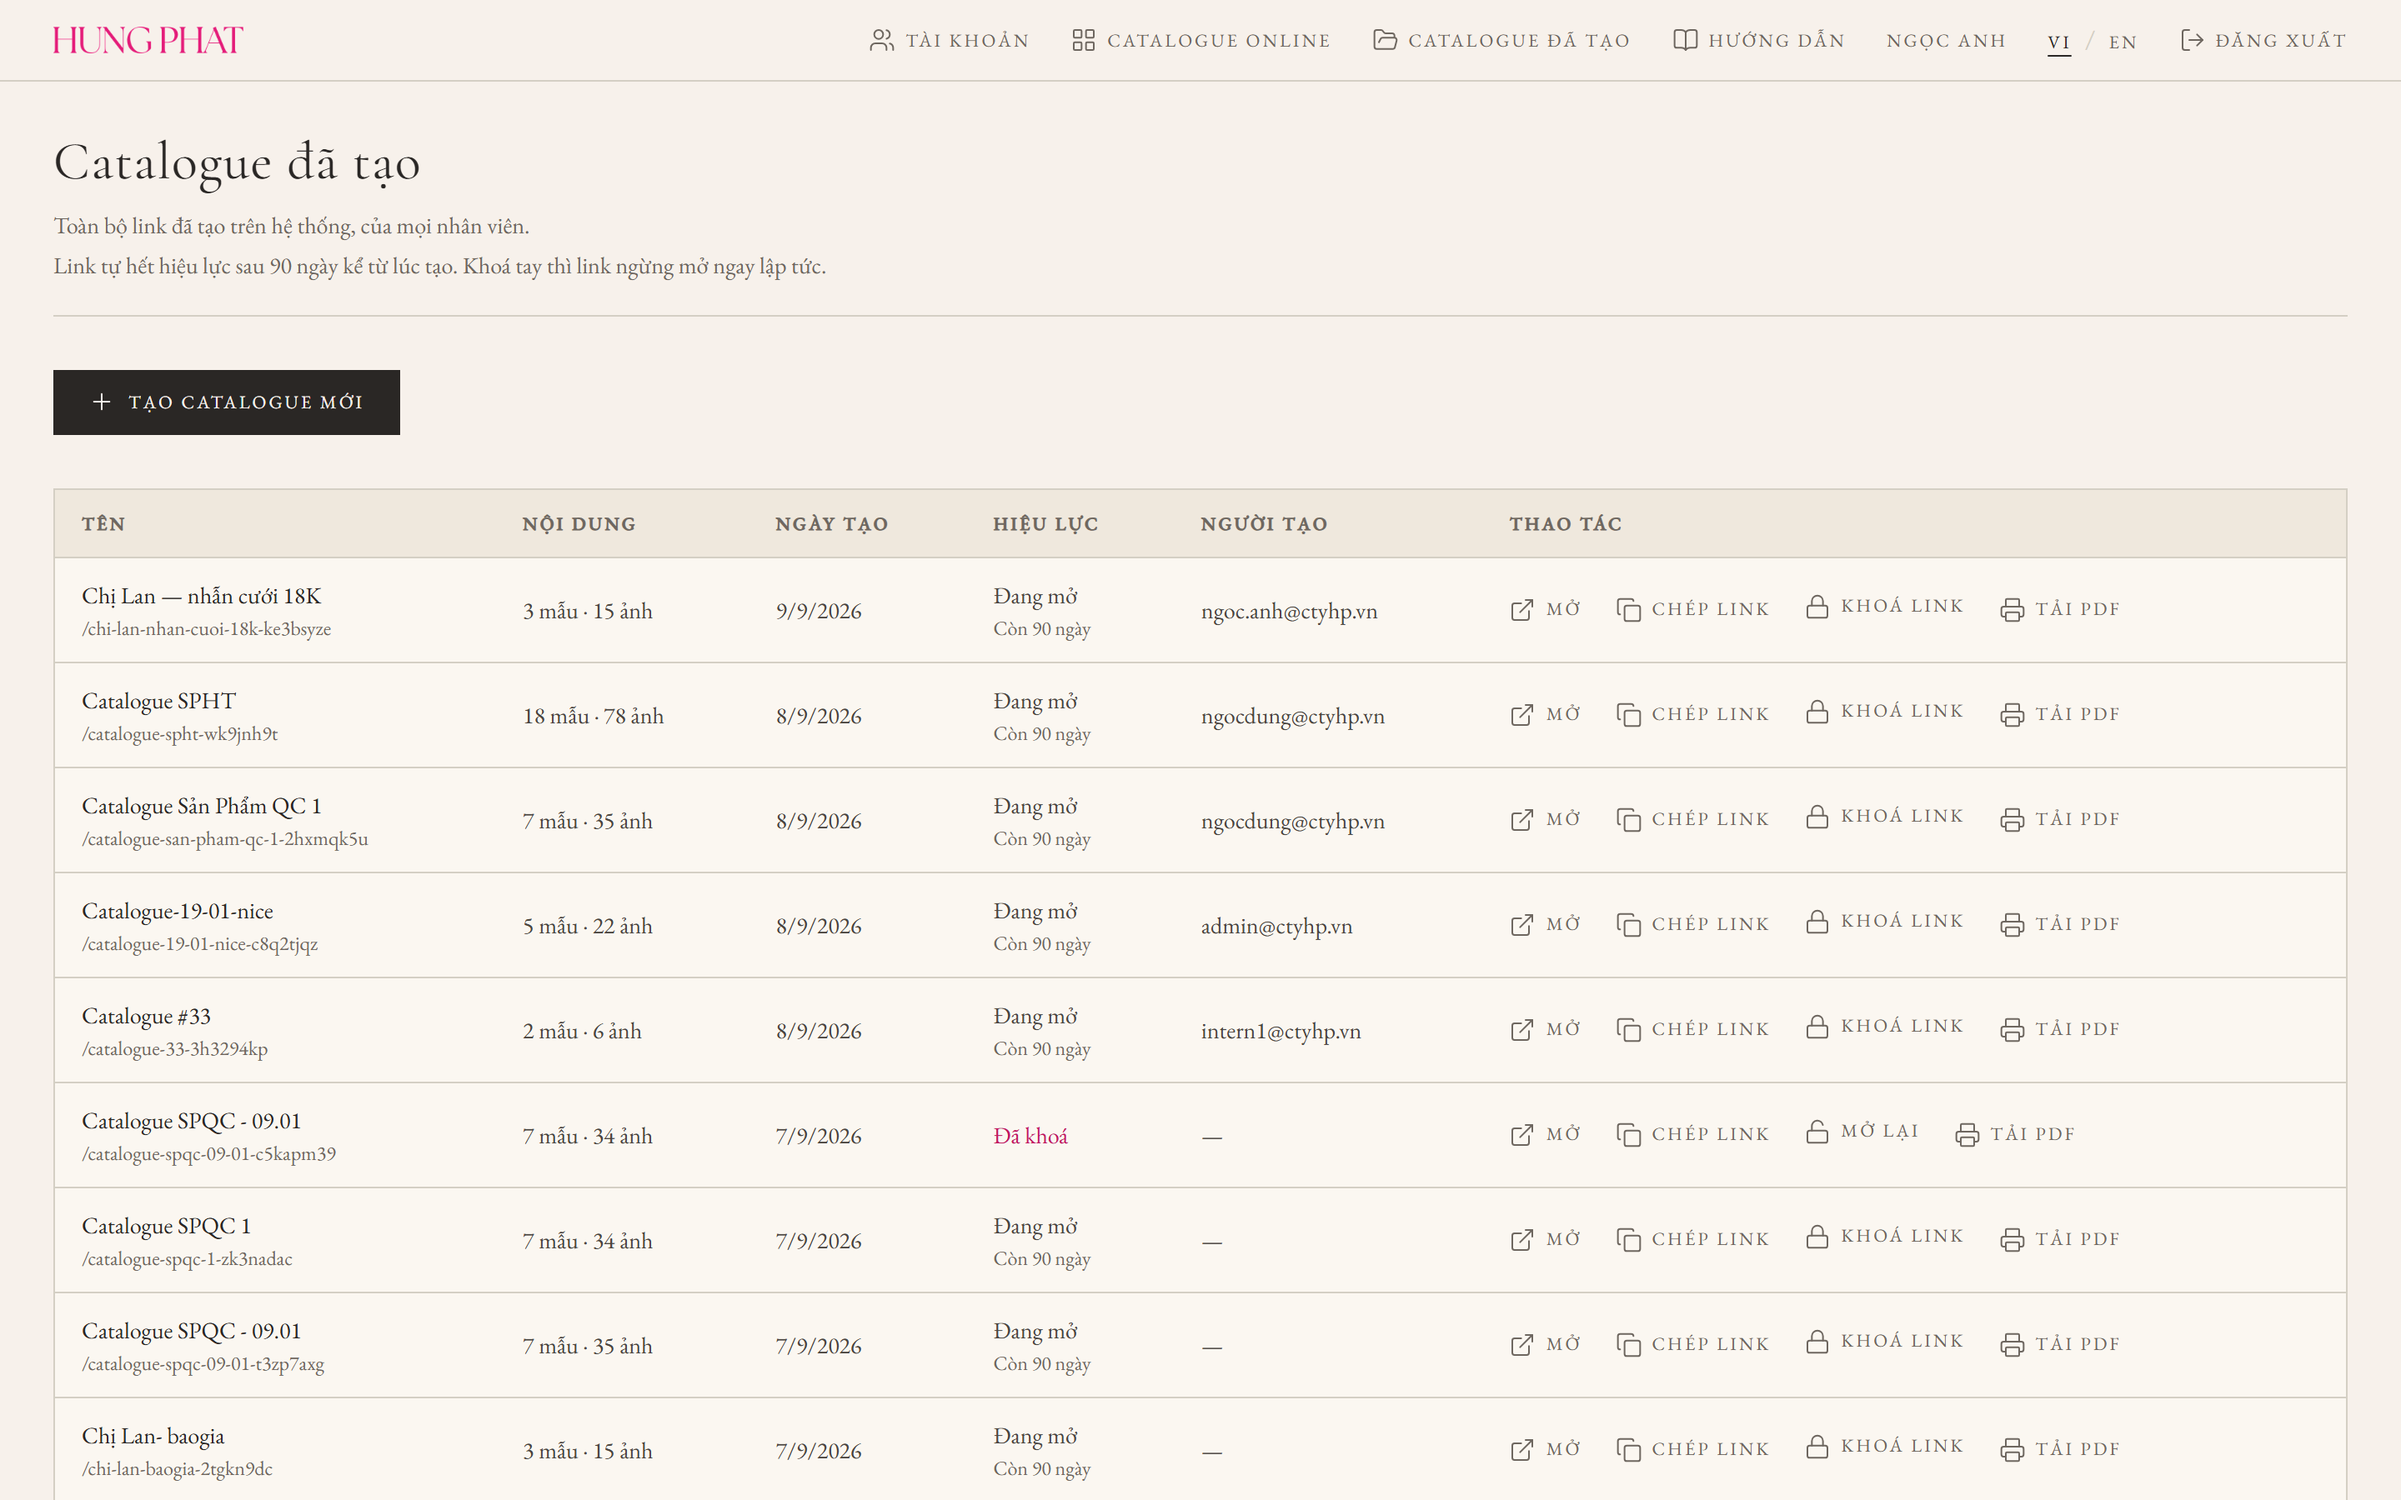
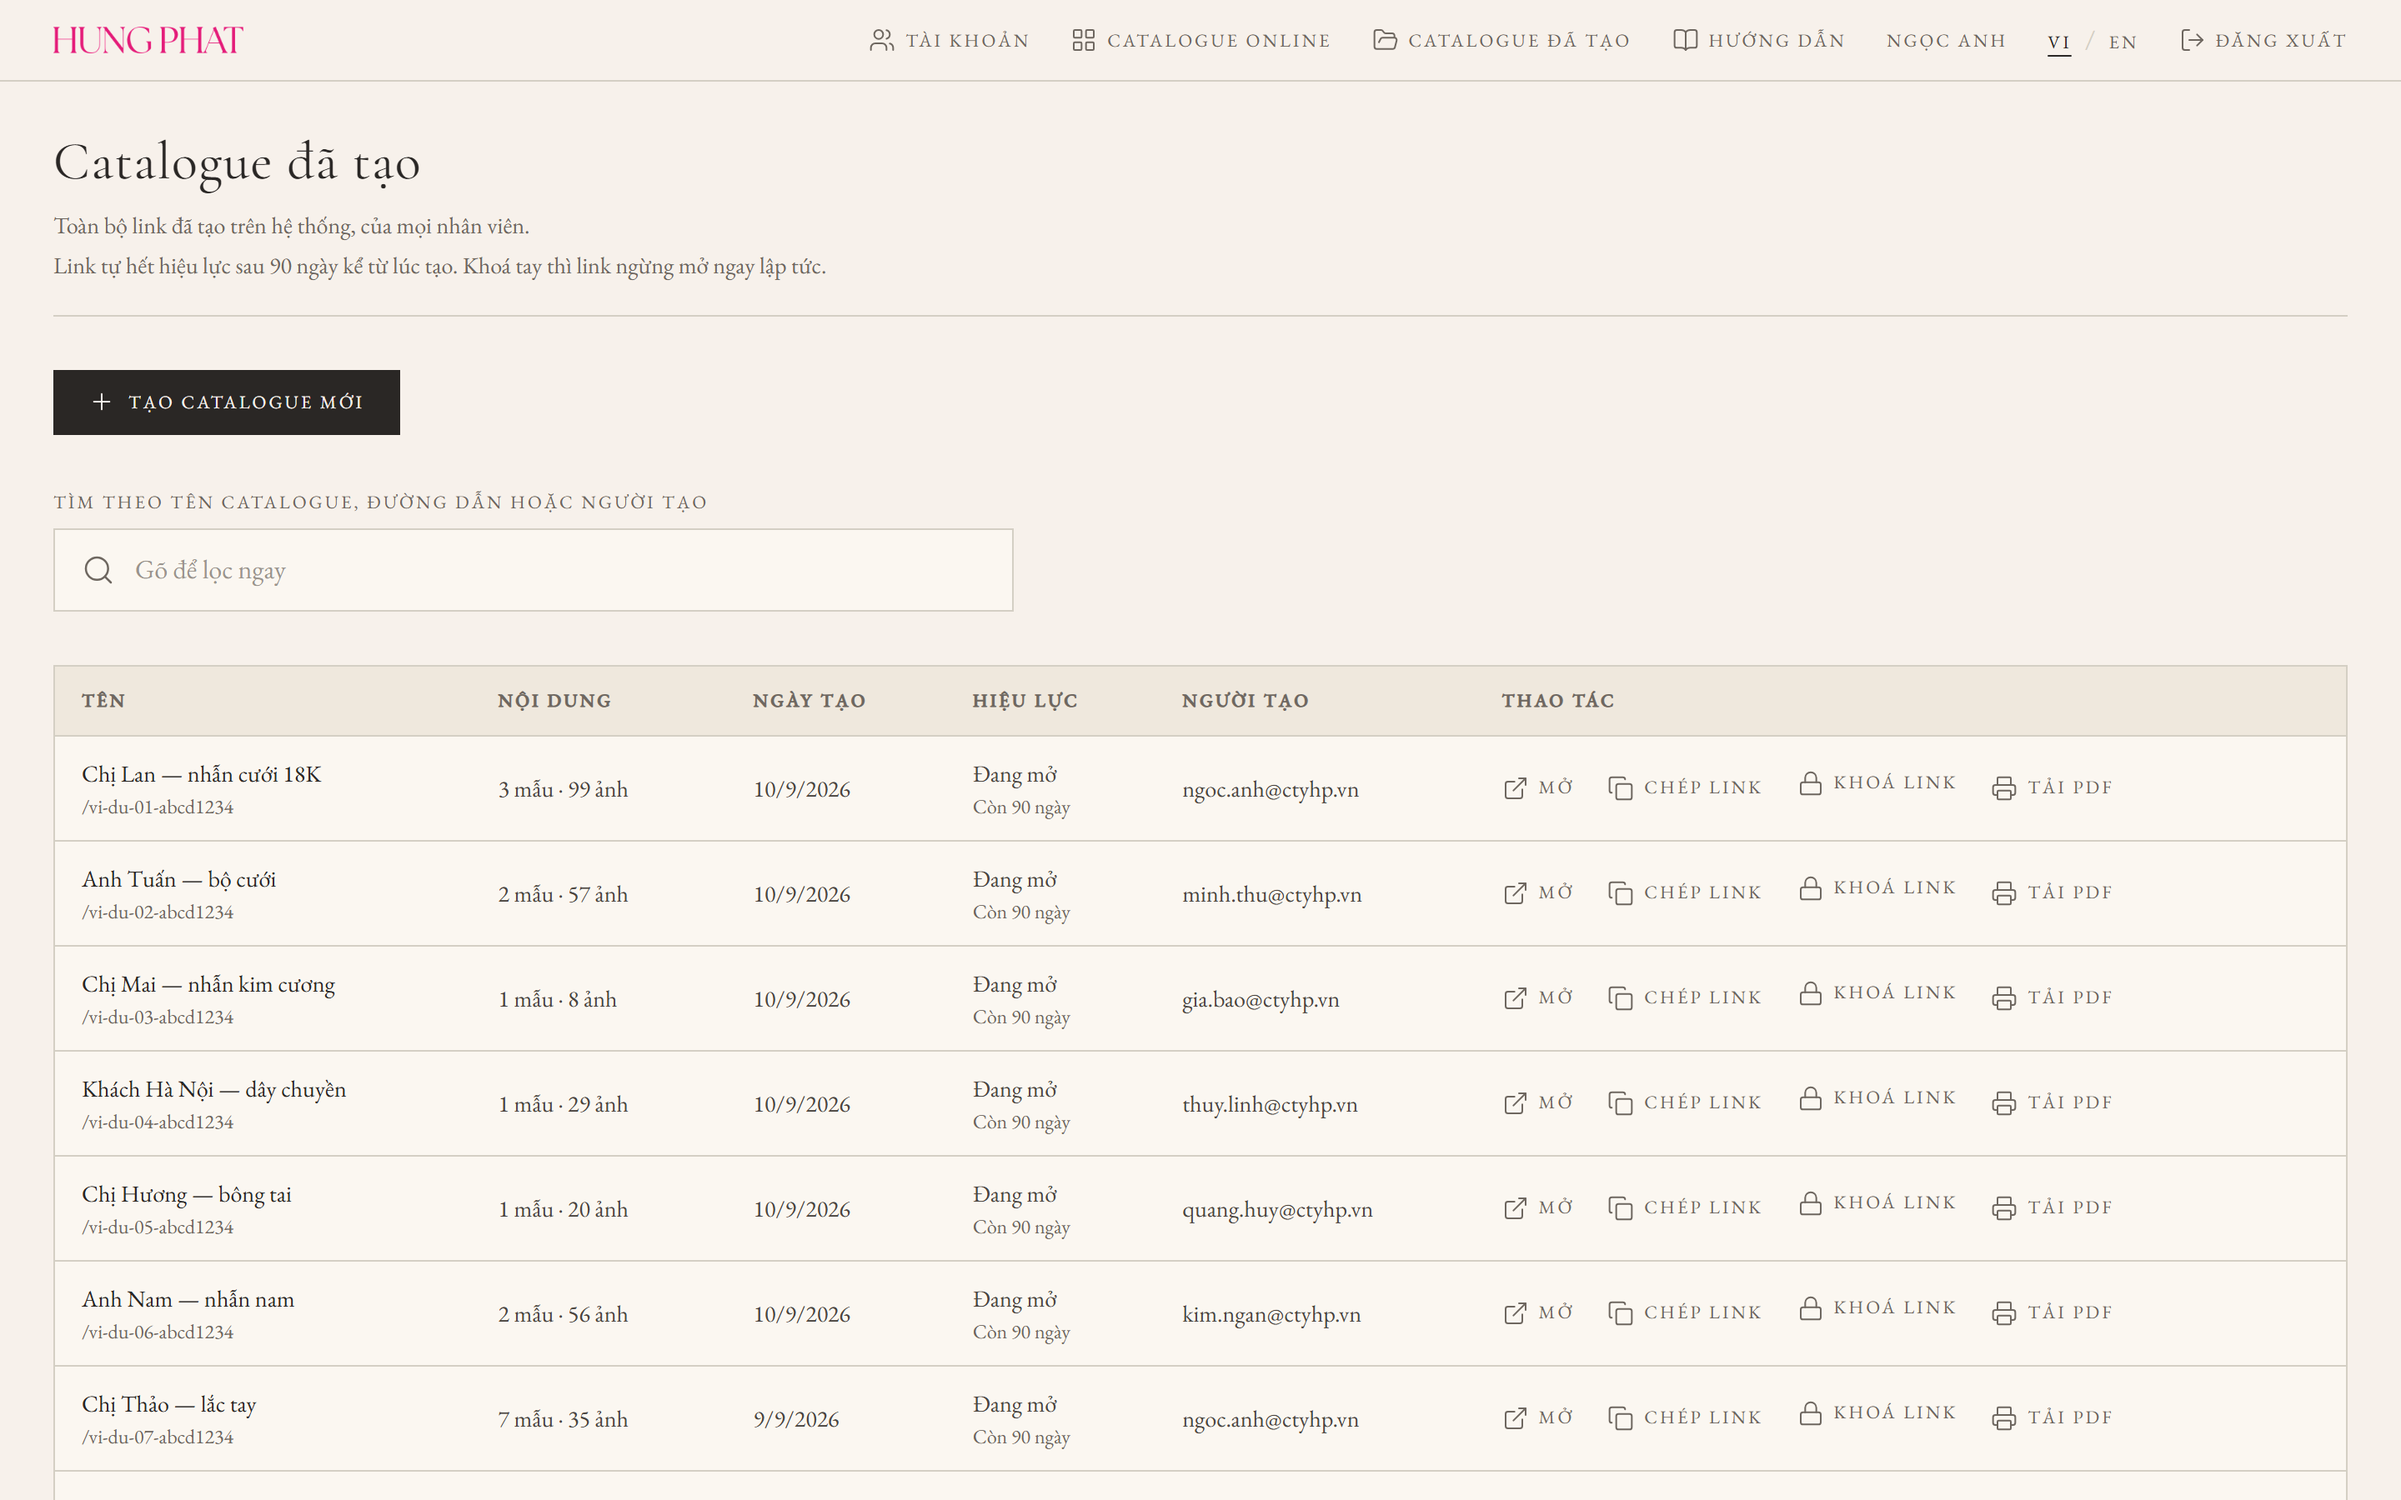
docs(hướng dẫn): thêm bước vai trò, và che dữ liệu thật khỏi ảnh công khai
Bước 8 mới: cấp tài khoản và phân vai trò. Chỉ hiện với người có mức
quyền quản trị — lọc theo mucQuyen chứ không theo tên vai trò, để một
vai trò tự đặt mang bậc quản trị cũng thấy. Sale không phải đi tìm một
nút không tồn tại với họ.

Đi kèm là ba lỗi phải sửa mới chụp lại được bộ ảnh:

1. Bước 3 treo 30 giây rồi chết: danh sách gợi ý tìm kiếm (thêm hồi
   nâng cấp search) còn mở và đè lên hàng đầu của bảng, Playwright báo
   "subtree intercepts pointer events". Người thật cũng gặp đúng cảnh
   đó. Đóng gợi ý trước khi tích.

2. Bước 5 vẽ mũi tên ra ngoài ảnh (y = -2%): scrollIntoViewIfNeeded căn
   thẻ "vừa nhìn thấy được", mà thẻ cao hơn khung nhìn nên đỉnh thẻ nằm
   nhỉnh trên mép. Tự cuộn, chừa 80px. Cái chốt chặn thêm hôm trước đã
   bắt được lỗi này thay vì để nó lặng lẽ vẽ sai.

3. RÒ DỮ LIỆU THẬT — nặng nhất, và có sẵn từ trước. Ảnh nằm trong
   public/ nên ai biết đường dẫn cũng tải được, mà kho mã nguồn thì công
   khai. Ảnh bước 7 in ra email thật của đồng nghiệp VÀ đường dẫn
   /c/<slug> thật của catalogue đang gửi khách — slug được thiết kế để
   không đoán ra, in nó lên một ảnh công khai là mở catalogue của khách
   cho cả Internet. Nay thay bằng dữ liệu minh hoạ ngay trên màn hình
   trước khi chụp; không đụng tới cơ sở dữ liệu, vì sửa hàng thật của
   đồng nghiệp chỉ để chụp một tấm ảnh là cái giá quá đắt.

diff --git a/src/app/admin/huong-dan/page.tsx b/src/app/admin/huong-dan/page.tsx
@@ -12,8 +12,14 @@ export async function generateMetadata() {
 
 const THU_MUC_ANH = "huong-dan";
 
-/** Mot buoc: cau chu do nguoi viet dat, vi tri mui ten do may do. */
-type Buoc = { ten: string; moTa: string; anh: string; chu: string[] };
+/**
+ * Mot buoc: cau chu do nguoi viet dat, vi tri mui ten do may do.
+ *
+ * `chiAdmin` cho nhung buoc noi ve man hinh ma sale khong mo duoc. Day la de
+ * KHOI BAY ra mot huong dan lam nguoi ta di tim mot nut khong ton tai voi ho —
+ * khong phai de giau bi mat, vi noi dung buoc do khong co gi bi mat ca.
+ */
+type Buoc = { ten: string; moTa: string; anh: string; chu: string[]; chiAdmin?: true };
 
 function cacBuoc(t: BoChu): Buoc[] {
   return [
@@ -59,6 +65,13 @@ function cacBuoc(t: BoChu): Buoc[] {
       anh: "07-danh-sach",
       chu: [t.huong_dan.b7_c1, t.huong_dan.b7_c2, t.huong_dan.b7_c3],
     },
+    {
+      ten: t.huong_dan.b8_ten,
+      moTa: t.huong_dan.b8_mo_ta,
+      anh: "08-tai-khoan-vai-tro",
+      chu: [t.huong_dan.b8_c1, t.huong_dan.b8_c2, t.huong_dan.b8_c3],
+      chiAdmin: true,
+    },
   ];
 }
 
@@ -98,9 +111,11 @@ function ghep(chu: string[], viTri: ViTri[] | undefined): Diem[] {
 }
 
 export default async function TrangHuongDan() {
-  await requireUser();
+  const toi = await requireUser();
   const t = await layChu();
-  const buoc = cacBuoc(t);
+  // Loc theo MUC QUYEN chu khong theo ten vai tro: mot vai tro tu dat mang bac
+  // quan tri thi cung phai thay buoc nay.
+  const buoc = cacBuoc(t).filter((b) => !b.chiAdmin || toi.mucQuyen === "admin");
 
   return (
     <div className="mx-auto max-w-3xl">

diff --git a/src/messages/vi.ts b/src/messages/vi.ts
@@ -325,6 +325,11 @@ export const vi = {
     b7_c1: "Vào từ thanh trên cùng.",
     b7_c2: "Chép lại link cũ mà không cần tạo lại.",
     b7_c3: "Tải PDF của một catalogue cũ.",
+    b8_ten: "Cấp tài khoản và phân vai trò",
+    b8_mo_ta: "Chỉ quản trị thấy bước này. Vai trò là cái TÊN anh tự đặt cho hợp với công ty — GSNB, R&D, thực tập sinh. Nhưng quyền thì hệ thống chỉ cưỡng chế được hai bậc, nên mỗi vai trò buộc phải chọn một trong hai.",
+    b8_c1: "Cột Quyền mới là thứ quyết định người đó làm được gì: Quản trị vào được mọi màn hình, Thường chỉ tạo catalogue. Hai vai trò gốc không đổi được bậc và không xoá được.",
+    b8_c2: "Thêm vai trò mới ở đây. Vai trò còn người giữ thì không xoá được — chuyển họ sang vai trò khác trước.",
+    b8_c3: "Đổi vai trò của một người: chọn ở ô này rồi bấm Đổi vai trò bên cạnh.",
   },
   danh_sach_catalogue: {
     tieu_de: "Catalogue đã tạo",

diff --git a/src/messages/en.ts b/src/messages/en.ts
@@ -319,6 +319,11 @@ export const en: BoChu = {
     b7_c1: "Reach it from the top bar.",
     b7_c2: "Copy an old link again without recreating it.",
     b7_c3: "Download the PDF of an older catalogue.",
+    b8_ten: "Create accounts and assign roles",
+    b8_mo_ta: "Administrators only. A role is a NAME you choose to match your company — internal audit, R&D, interns. Access, though, comes in only two levels the system can enforce, so every role has to pick one.",
+    b8_c1: "The Access column is what decides what someone can do: Administrator reaches every screen, Standard only builds catalogues. The two built-in roles cannot change level and cannot be deleted.",
+    b8_c2: "Add a new role here. A role someone still holds cannot be deleted — move them to another role first.",
+    b8_c3: "To change someone's role: pick it in this box, then press Change role beside it.",
   },
   danh_sach_catalogue: {
     tieu_de: "Catalogues created",
